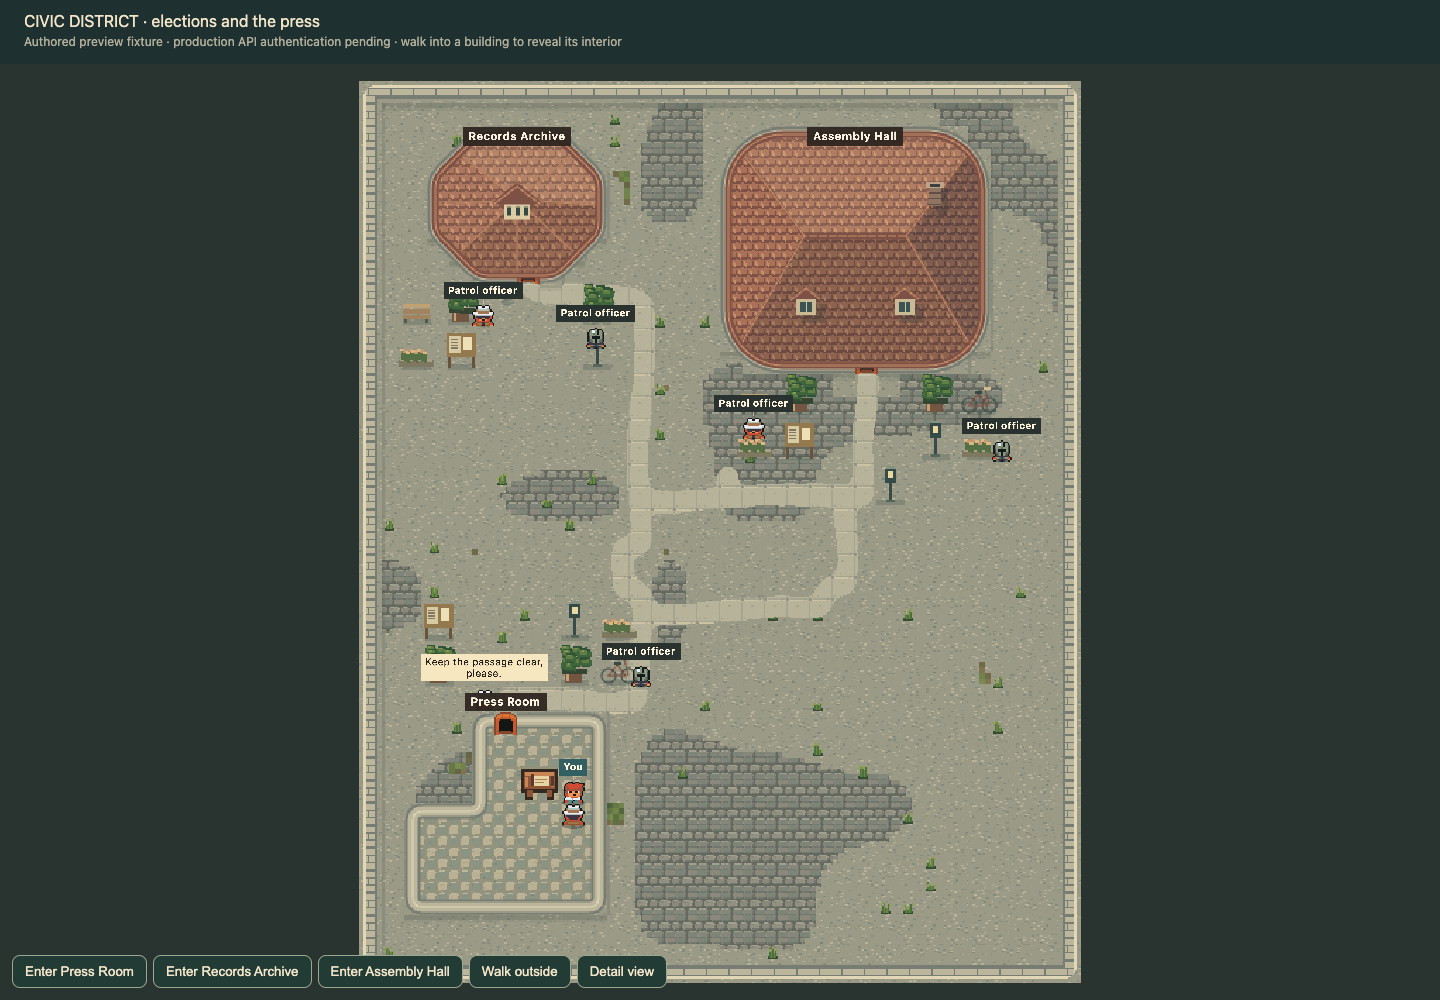
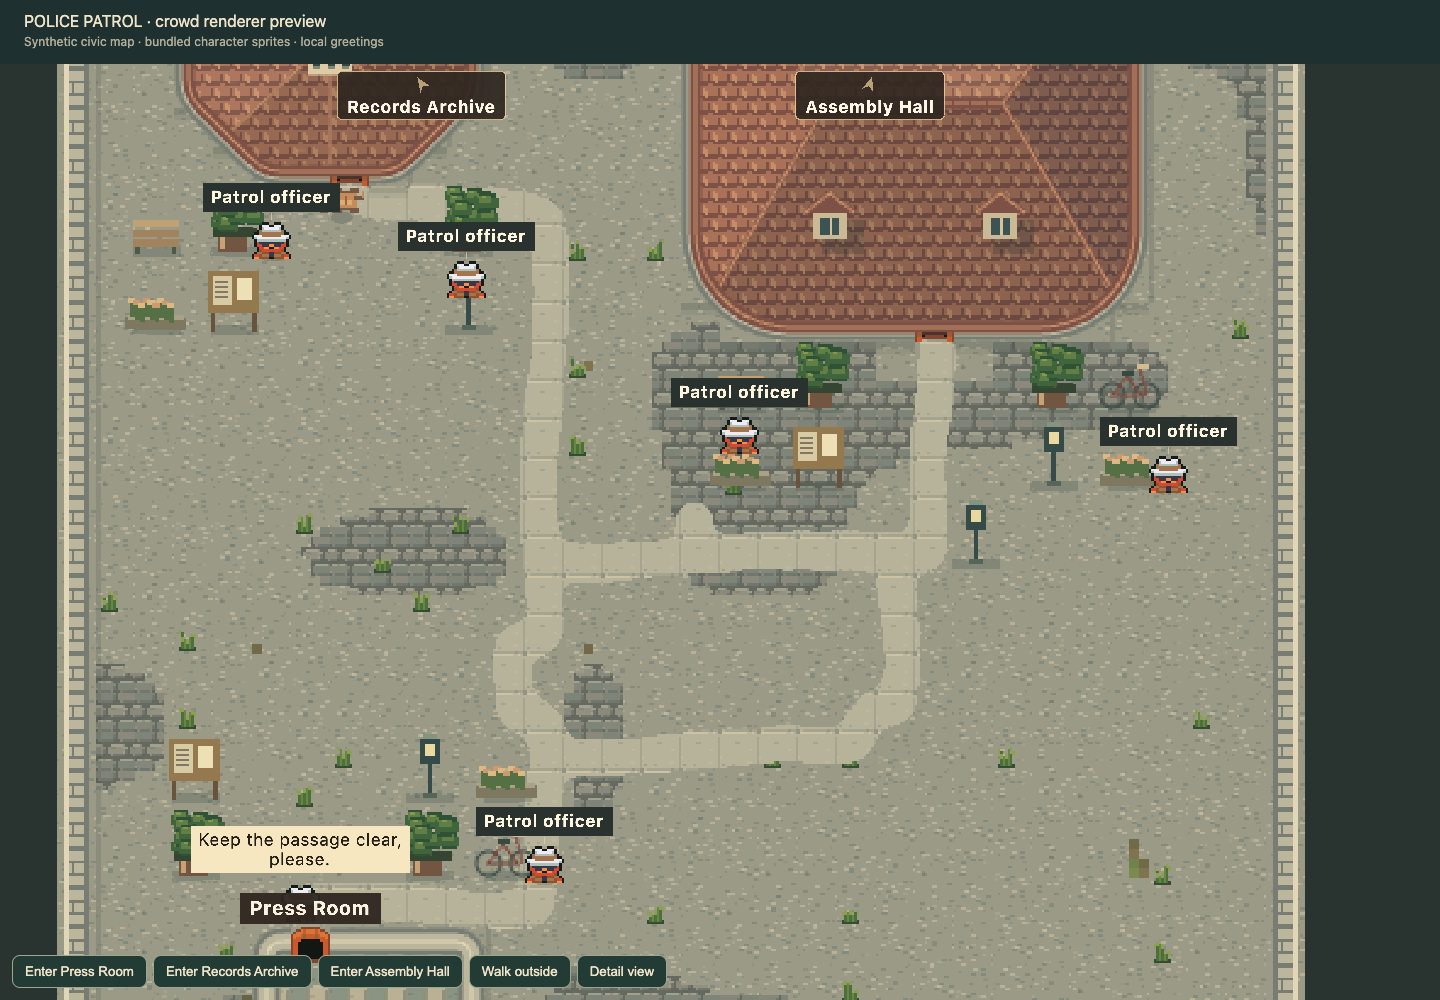
fix: distinguish stage crowd sprites and improve visual evidence

diff --git a/packages/game-client/e2e/stage-crowds.spec.ts b/packages/game-client/e2e/stage-crowds.spec.ts
@@ -20,6 +20,7 @@ for (const [context, kind] of [['National Service', 'troops'], ['Street riots', 
       const harness = (window as any).storyHarness
       const scene = harness.game.scene.getScene('tiled-map')
       const residents = scene.ambientLife.residents.filter((r: any) => r.person)
+      harness.view.setReducedMotion(true)
       const first = residents[0]
       const before = JSON.stringify(harness.snapshot)
       const player = scene.current.actors.find((a: any) => a.id === 'player')
@@ -27,6 +28,7 @@ for (const [context, kind] of [['National Service', 'troops'], ['Street riots', 
       const greeted = harness.view.greetNearby()
       return { count: residents.length, greeted, lines: first.person.talk.lines,
         bubble: first.bubble?.text, names: residents.map((r: any) => r.sprite.name),
+        sheets: [...new Set(residents.map((r: any) => r.sheet))],
         missing: residents.filter((r: any) => r.sprite.texture.key === '__MISSING').length,
         hasDrill: residents.every((r: any) => !!r.drill),
         unchanged: JSON.stringify(harness.snapshot) === before }
@@ -34,11 +36,25 @@ for (const [context, kind] of [['National Service', 'troops'], ['Street riots', 
     expect(result.count).toBe(6)
     expect(result.names.every((name: string) => name.startsWith(`ambient-${kind}-`))).toBe(true)
     expect(result.missing).toBe(0)
+    expect(result.sheets).toEqual(kind === 'troops' ? ['char-Knight'] : kind === 'patrol' ? ['char-Inspector'] : ['char-Villager', 'char-Villager2', 'char-Villager3', 'char-Villager4', 'char-Villager5', 'char-Villager6'])
     expect(result.greeted).toBe(true)
     expect(result.lines).toContain(result.bubble)
     expect(result.unchanged).toBe(true)
     if (kind === 'troops') expect(result.hasDrill).toBe(true)
     expect(errors).toEqual([])
+    // Frame the actual crowd at readable scale, without relocating any sprites.
+    // This is a diagnostic camera view of the renderer, not the gameplay camera.
+    await page.evaluate(() => {
+      const scene = (window as any).storyHarness.game.scene.getScene('tiled-map')
+      const people = scene.ambientLife.residents.filter((r: any) => r.person)
+      const xs = people.map((r: any) => r.sprite.x), ys = people.map((r: any) => r.sprite.y)
+      const left = Math.min(...xs), right = Math.max(...xs), top = Math.min(...ys), bottom = Math.max(...ys)
+      const camera = scene.cameras.main
+      camera.stopFollow(); camera.removeBounds()
+      camera.setZoom(Math.min(5, camera.width / (right - left + 96), camera.height / (bottom - top + 112)))
+      camera.centerOn((left + right) / 2, (top + bottom) / 2 - 16)
+    })
+    await page.evaluate(() => new Promise<void>(resolve => requestAnimationFrame(() => requestAnimationFrame(() => resolve()))))
     await page.screenshot({ path: testInfo.outputPath(`${kind}.png`) })
   })
 }

diff --git a/packages/game-client/e2e/story-art-harness.ts b/packages/game-client/e2e/story-art-harness.ts
@@ -53,8 +53,8 @@ prototype.boot = function () { game = this; boot.call(this) }
 document.body.style.cssText = `margin:0;background:${profile.background};font-family:system-ui;color:#f0e4c9`
 const heading = document.createElement('header')
 heading.style.cssText = 'box-sizing:border-box;height:64px;padding:12px 24px;background:#1e302f'
-heading.textContent = production?.title ?? example.title
-const caption = document.createElement('div'); caption.style.cssText = 'font-size:12px;opacity:.7;margin-top:4px'; caption.textContent = production ? 'Preview / server LLM art direction · walk into a building to reveal its interior' : 'Authored preview fixture · production API authentication pending · walk into a building to reveal its interior'
+heading.textContent = snapshot.crowdContext ? `${snapshot.crowdContext.toUpperCase()} · crowd renderer preview` : production?.title ?? example.title
+const caption = document.createElement('div'); caption.style.cssText = 'font-size:12px;opacity:.7;margin-top:4px'; caption.textContent = snapshot.crowdContext ? 'Synthetic civic map · bundled character sprites · local greetings' : production ? 'Preview / server LLM art direction · walk into a building to reveal its interior' : 'Authored preview fixture · production API authentication pending · walk into a building to reveal its interior'
 heading.append(caption)
 const parent = document.createElement('div'); parent.style.cssText = 'width:100vw;height:calc(100vh - 64px)'
 document.body.replaceChildren(heading, parent)

diff --git a/packages/game-client/src/stage-crowds.ts b/packages/game-client/src/stage-crowds.ts
@@ -10,7 +10,7 @@ export interface StageCrowd {
 }
 
 const TROOPS: StageCrowd = {
-  kind: 'troops', name: 'Recruit', sprites: ['Knight', 'Inspector'], movement: 'formation',
+  kind: 'troops', name: 'Recruit', sprites: ['Knight'], movement: 'formation',
   lines: ['Keep in step. We drill together until the turn is right.', 'There will be time to talk when the drill is over.'],
 }
 const RIOTERS: StageCrowd = {
@@ -18,7 +18,7 @@ const RIOTERS: StageCrowd = {
   lines: ['Stay close. It is hard to hear over the crowd.', 'People keep gathering here. Watch your footing.'],
 }
 const PATROL: StageCrowd = {
-  kind: 'patrol', name: 'Patrol officer', sprites: ['Inspector', 'Knight'], movement: 'patrol',
+  kind: 'patrol', name: 'Patrol officer', sprites: ['Inspector'], movement: 'patrol',
   lines: ['Keep the passage clear, please.', 'We are making another round of the street.'],
 }
 

diff --git a/packages/game-client/tests/stage-crowds.test.ts b/packages/game-client/tests/stage-crowds.test.ts
@@ -29,6 +29,16 @@ describe('public stage crowds', () => {
       expect(crowd.lines.every(line => line.length > 0 && line.length < 100)).toBe(true)
     }
   })
+
+  it('gives each crowd a distinct silhouette without sharing character sheets', () => {
+    const crowds = ['National Service', 'riots', 'police patrol'].map(context => stageCrowd(context)!)
+    for (let i = 0; i < crowds.length; i++) {
+      for (let j = i + 1; j < crowds.length; j++) {
+        expect(crowds[i]!.sprites.filter(sprite => crowds[j]!.sprites.includes(sprite))).toEqual([])
+      }
+    }
+    expect(crowds[1]!.sprites.length).toBeGreaterThan(1)
+  })
 })
 
 describe('troop drill geometry', () => {
